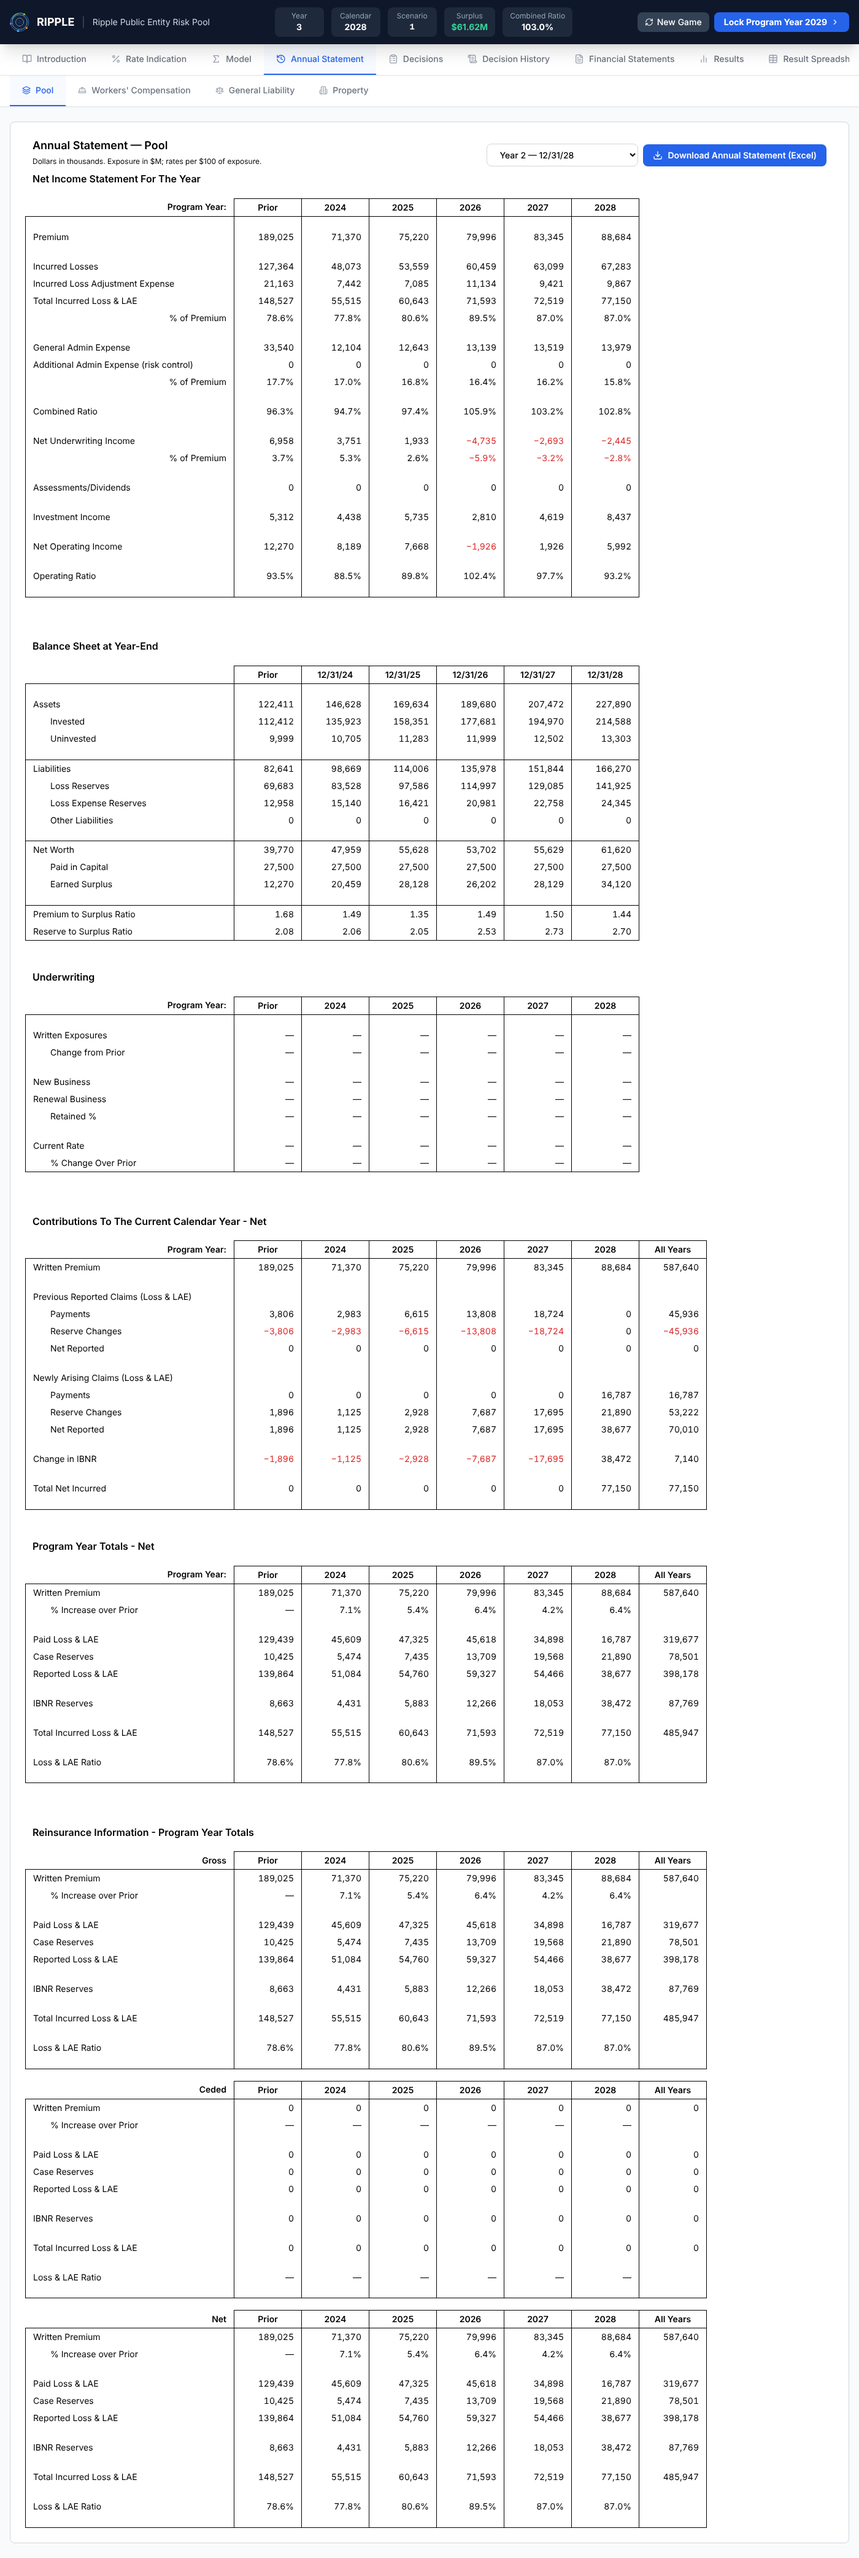
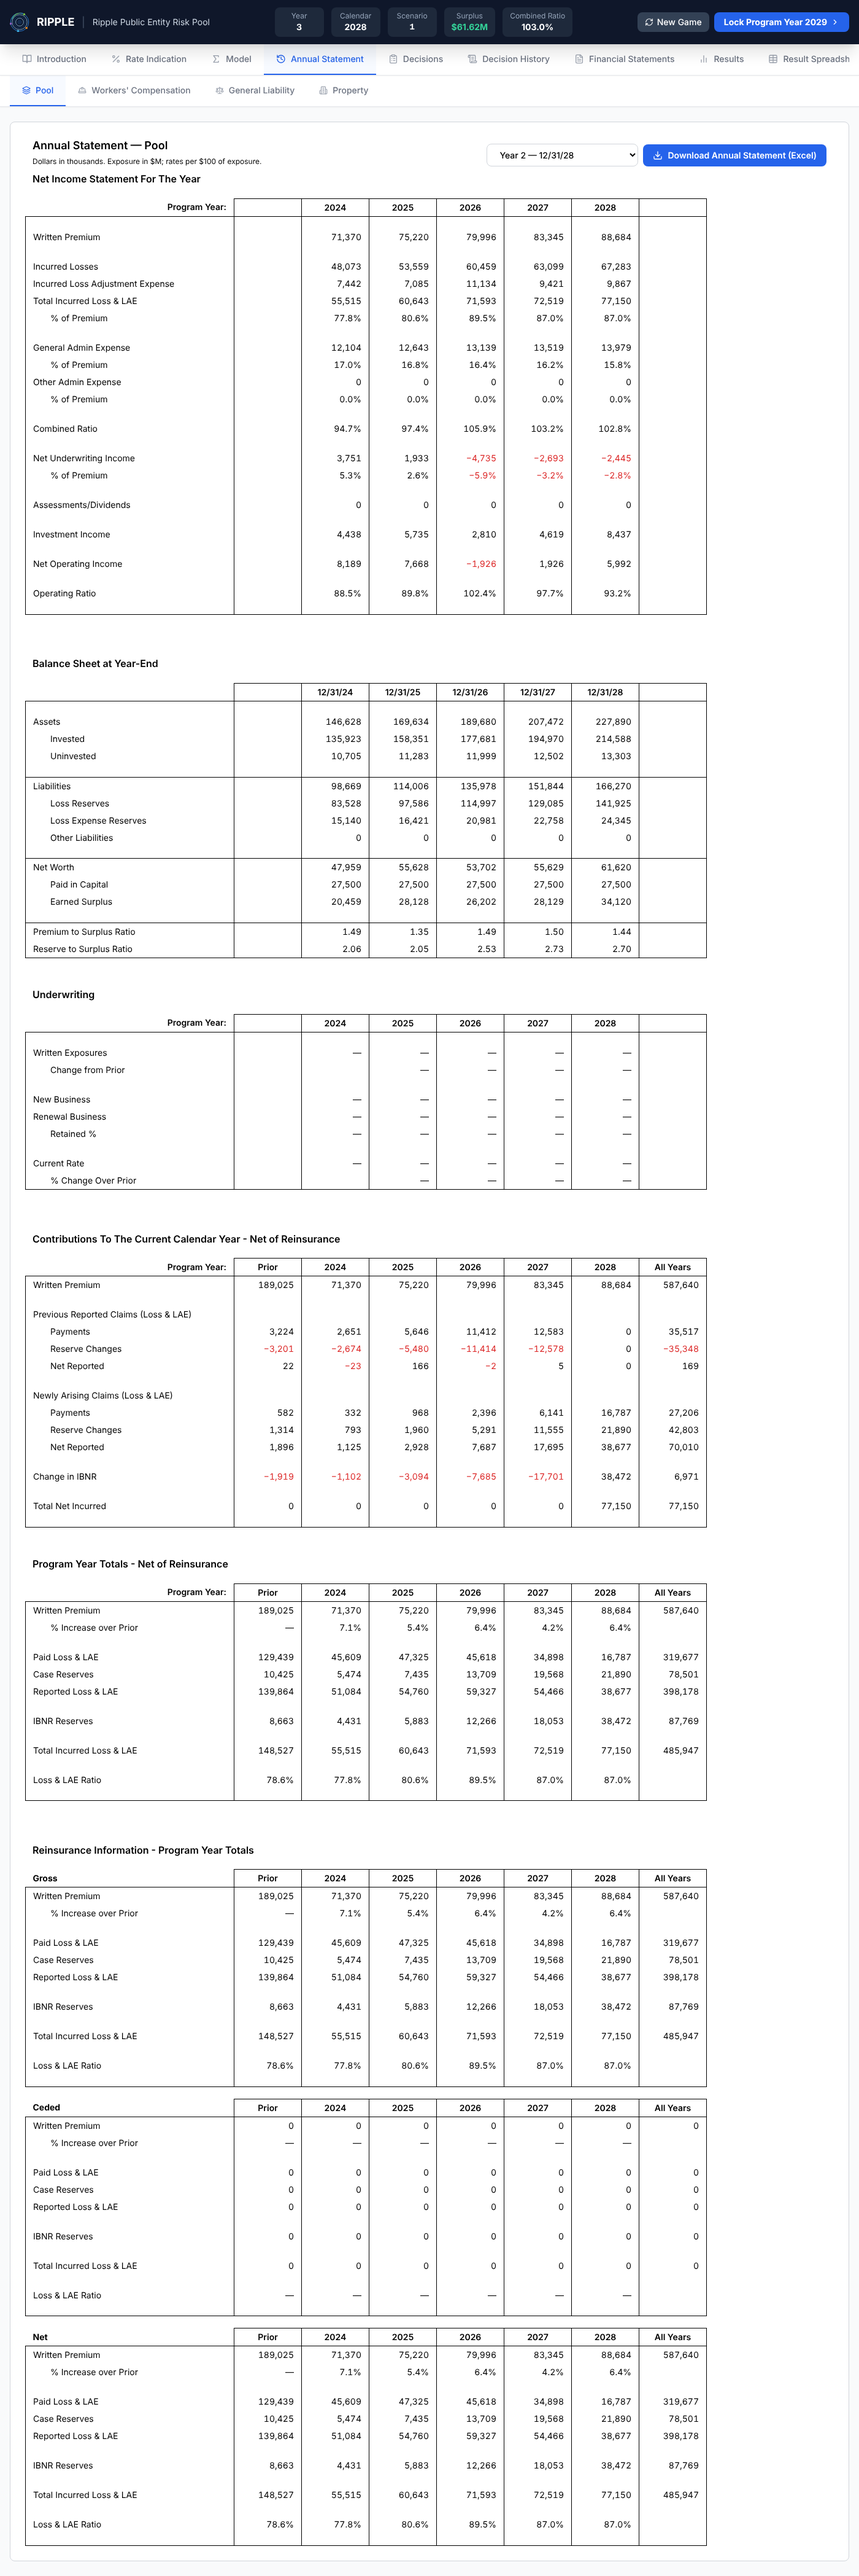
Annual Statement: RENDER_IDENTITY_v96, screenshots, notes
Exactly the 26 Annual Statement screens move, every row attributed (Prior off
the first three sections, the row changes, the Contributions variance).
combined-ratio checks the chip after played years only: before year 1 its
pre-game years are on no cell now that Prior is off the Net Income Statement.

Claude-Session: https://claude.ai/code/session_01Byj6E9jS5umDx57AMkZ5z2

diff --git a/scripts/tools/render-identity-check.ts b/scripts/tools/render-identity-check.ts
@@ -1456,7 +1456,22 @@ const BASELINE = process.env.RENDER_BASELINE
 // v94's own text: 26 of 236 move, EXACTLY the 26 Annual Statement screens, and
 // each is v94's text character for character once those two headings are read
 // back to their old wording. Nothing else on any screen.
-  ?? path.join(__dirname, '../../baselines/RENDER_IDENTITY_v95.json');
+// v96: SEVEN COLUMNS, THE NET INCOME STATEMENT'S ROWS, THE CONTRIBUTIONS
+// VARIANCE. Against v95's own text (RENDER_TEXT_DIR), parsed row by row: 26 of
+// 236 move, EXACTLY the 26 Annual Statement screens, nothing above the statement
+// on any, and every moved row is one of these — none unexplained:
+//   · Prior off the Net Income Statement, Balance Sheet and Underwriting: 832
+//     rows and 52 headers lose their Prior cell; 52 (Underwriting's two changes)
+//     lose Prior and the first year's change.
+//   · the labels "Written Premium", "Other Admin Expense", "- Net of Reinsurance"
+//     (read back to v95's wording, the rows' figures as they were); one row
+//     inserted on each screen, General Admin Expense's own "% of Premium", and the
+//     old admin "% of Premium" now Other Admin Expense's own (26 each).
+//   · the Contributions variance: Payments and Reserve Changes (52 each,
+//     Previously Reported and Newly Arising), Previously Reported Net Reported and
+//     Change in IBNR (26 each). Written Premium and Total Net Incurred do not move.
+// Bold block names, alignment and the blank C and I cells carry no text.
+  ?? path.join(__dirname, '../../baselines/RENDER_IDENTITY_v96.json');
 const WRITE = process.argv.includes('--write');
 const BASE_URL = process.env.RENDER_URL ?? 'http://127.0.0.1:4173';
 // The image ships chromium 1194; a newer `playwright` expects its own build and

diff --git a/docs/PENDING_MULTIPLAYER.md b/docs/PENDING_MULTIPLAYER.md
@@ -229,16 +229,18 @@ checks that exceljs is not loaded with the page. Re-run the generator if the
 template's lines ever change; the gate fails until you do.
 
 **Landed with:** `annual-statement-template-check` (new, in FAST): every figure
-tied to the engine on four games, the Excel file against the template, and the
-operating ratio by hand on scenario 1 WC 2027 (94.40%), each with a failing
-control, now including the borders. Also VALUE_IDENTITY_v87 unchanged,
-SOLO_EXPORT_GUARD_v99 (24 Results hashes unchanged since v94; the 24 statement
-hashes carry the borders from v96, the filled blanks from v97, All Years from
-v98 and the two renamed headings from v99, each attributed in
-`solo-export-guard.ts`), RENDER_IDENTITY_v95 (exactly the 26 Annual Statement
-screens moved at each of v92 to v95, each attributed in
-`render-identity-check.ts`; the borders move none, since it fingerprints text),
-and every session driver with the admin-token hook. Screenshots are in
+tied to the engine on six games, the Excel file against the template through the
+list of deliberate differences (which it prints), the admin "% of Premium" ties,
+the Contributions variance's invariants, and the operating ratio by hand on
+scenario 1 WC 2027 (94.40%), each with a failing control. Also
+VALUE_IDENTITY_v87 unchanged, SOLO_EXPORT_GUARD_v100 (24 Results hashes
+unchanged since v94; the 24 statement hashes carry the borders from v96, the
+filled blanks from v97, All Years from v98, the two renamed headings from v99,
+and the seven columns, row changes and variance from v100, each attributed in
+`solo-export-guard.ts`), RENDER_IDENTITY_v96 (exactly the 26 Annual Statement
+screens moved at each of v92 to v96, each attributed in
+`render-identity-check.ts`; borders move none, since it fingerprints text), and
+all 24 session drivers with the admin-token hook. Screenshots are in
 `docs/screenshots/annual-statement/`.
 
 ---
